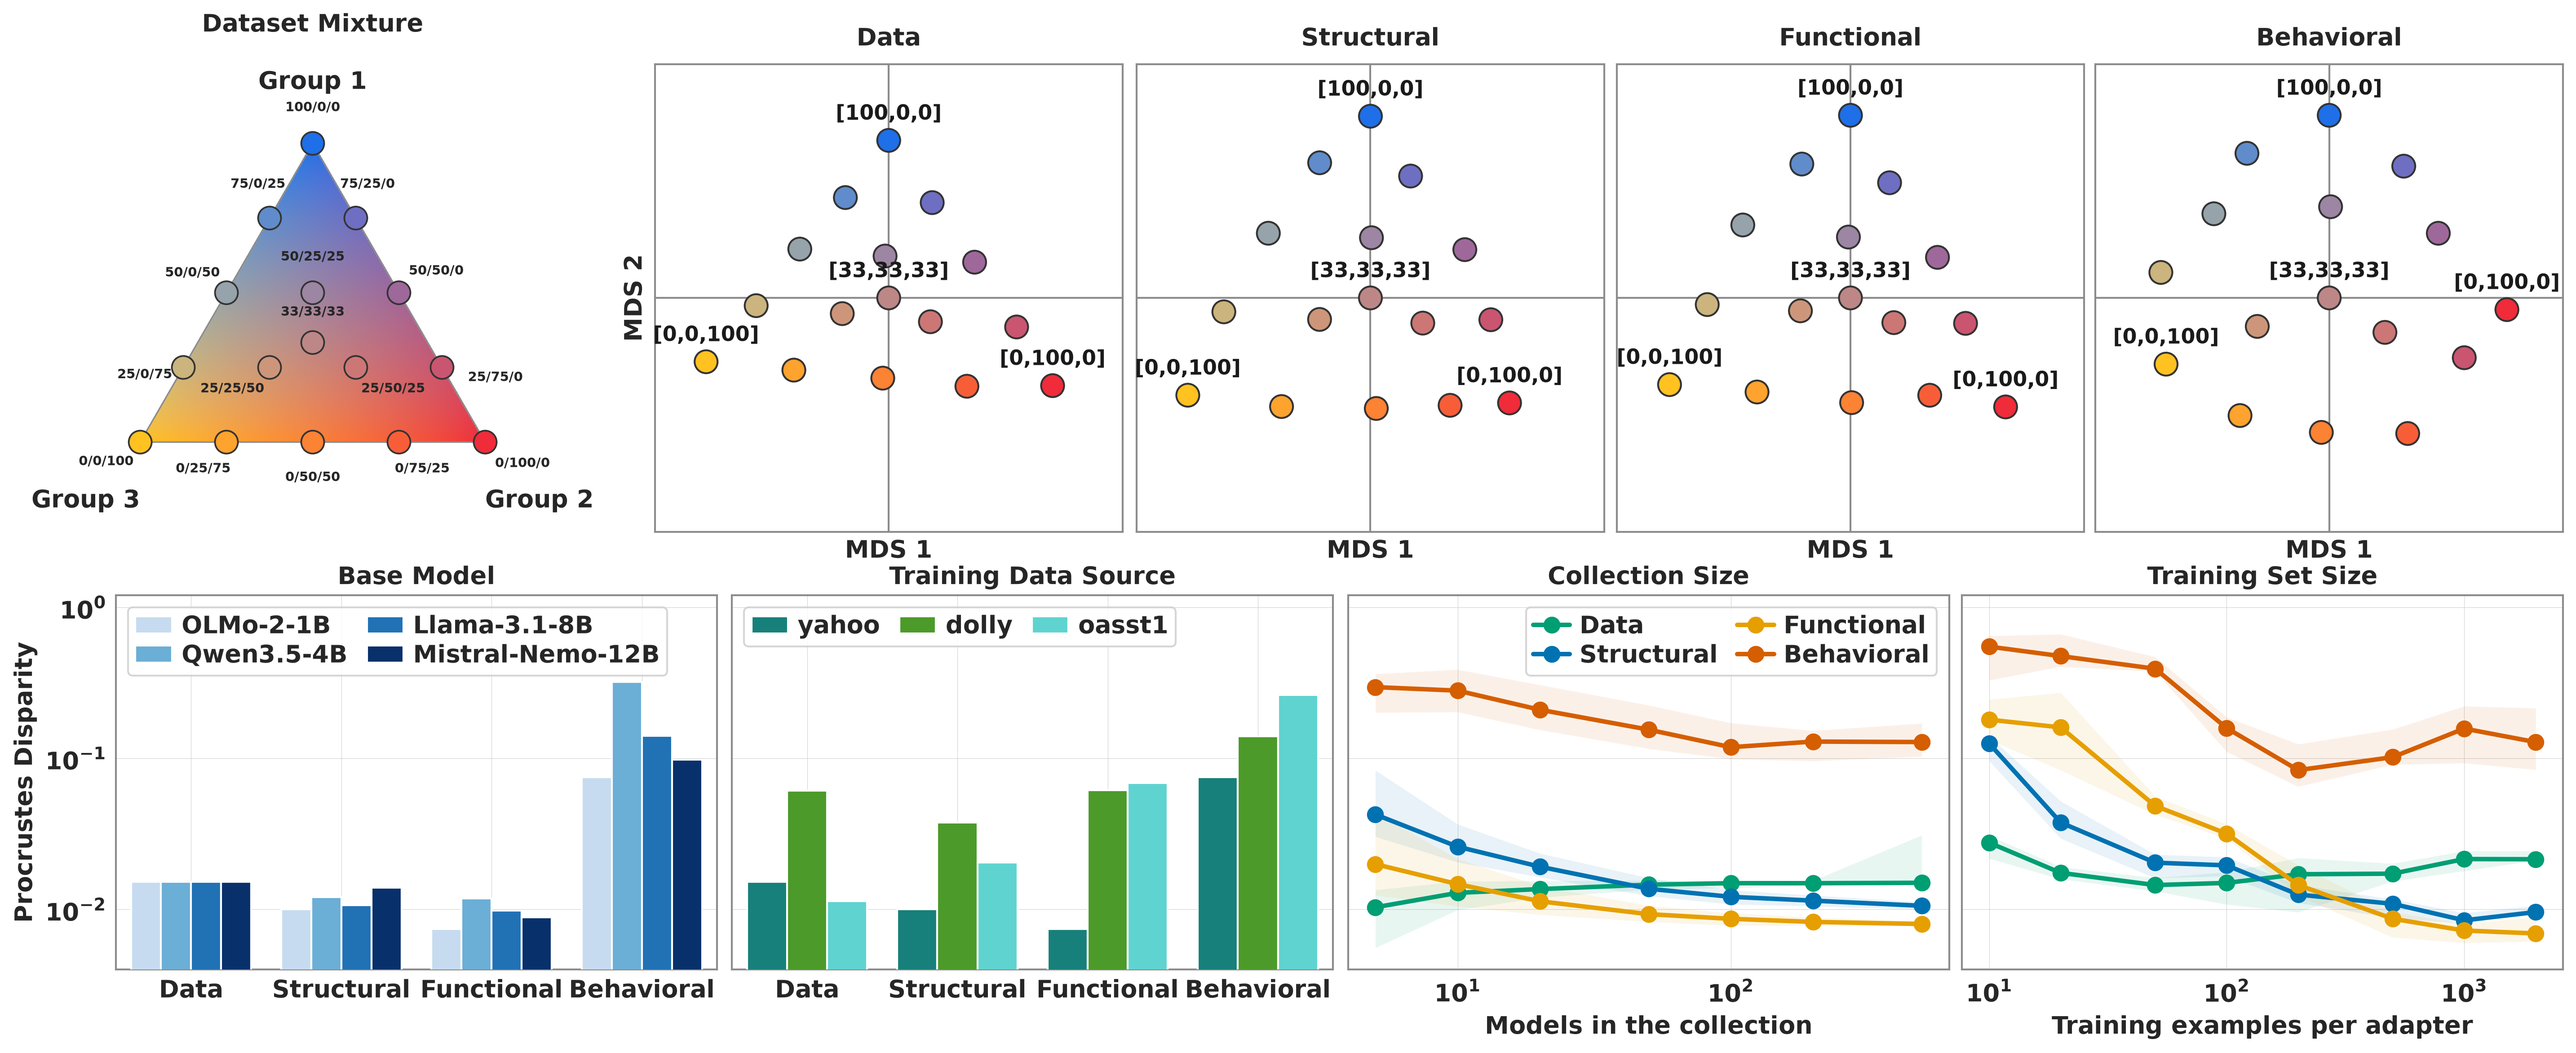
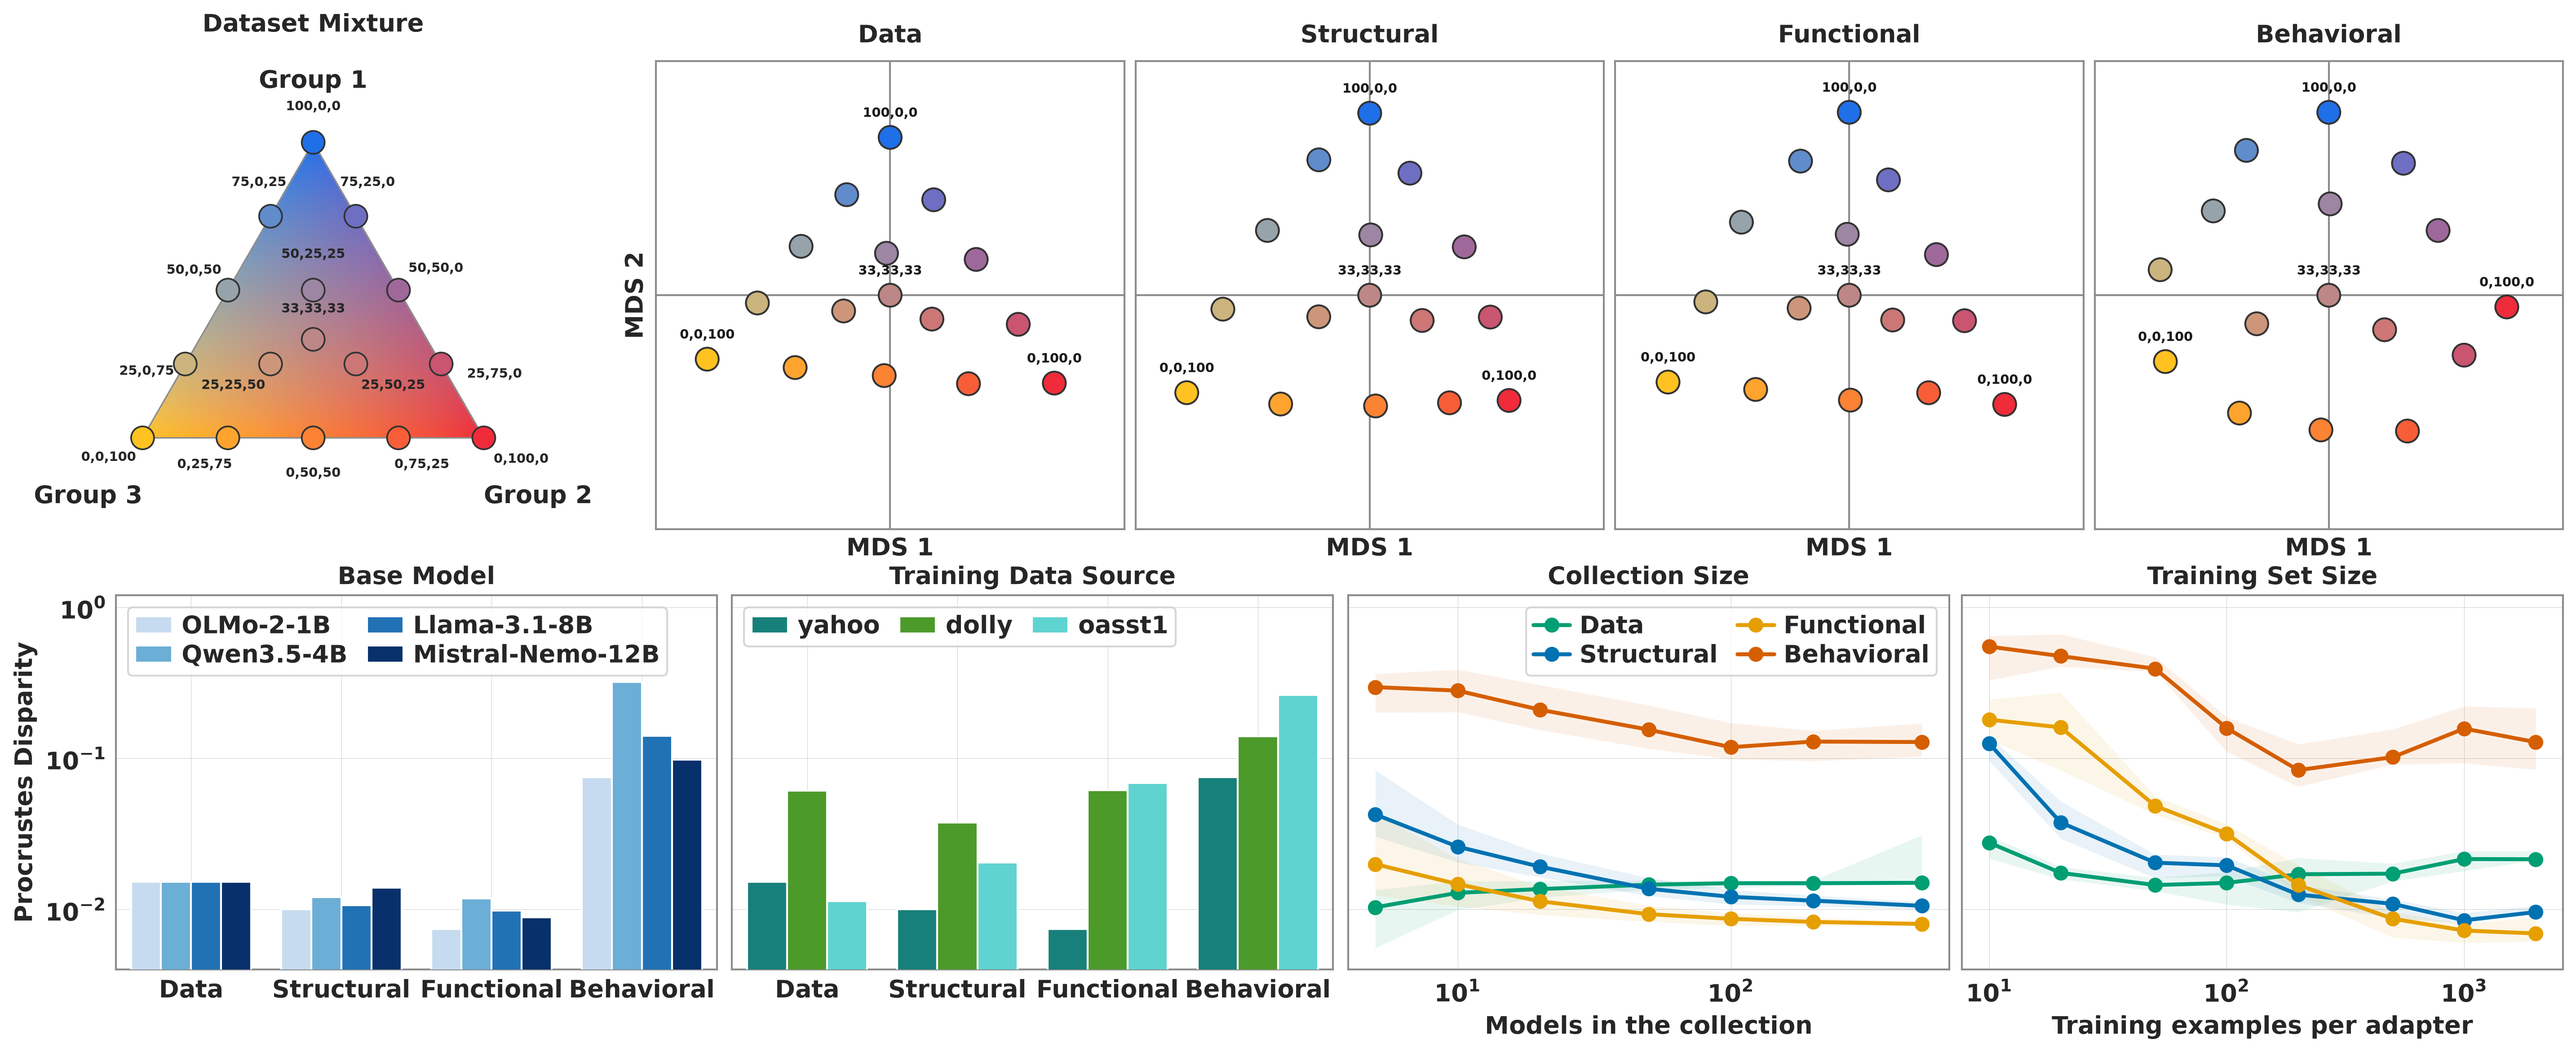
style(figure2): one form and one size for every mixture label
Mixtures are written `x,y,z` in the key and in the MDS panels alike -- no
brackets, no slashes -- and every label that names one is set at a single
MIXTURE_LABEL_SIZE, replacing the two sizes the key and the panels carried.

Claude-Session: https://claude.ai/code/session_013wT22QHA98vYoz6C7ZiiGN

diff --git a/figures/figure2/make_figures.py b/figures/figure2/make_figures.py
@@ -116,11 +116,10 @@ Every piece of text in the figure is one size and one weight — see
 :data:`FONT_SIZE` and :func:`_apply_style`. The three sources this figure is
 assembled from do not agree on either by default, because each was written for a
 figure it was the whole of, and side by side in one frame that difference reads
-as emphasis rather than as provenance. The single exception is the vertex and
-centre labels annotated *inside* the MDS panels, which take one step down (see
-:data:`POINT_LABEL_SIZE`) because they sit among the points they name, and the
-mixture key's sixteen labels, which are smaller again (see
-:data:`KEY_LABEL_SIZE`) because sixteen of them share one triangle.
+as emphasis rather than as provenance. The single exception is the labels that
+name a mixture — the four annotated inside each MDS panel and the key's sixteen
+— which are set together at :data:`MIXTURE_LABEL_SIZE`, small enough for the
+densest panel that carries them.
 
 Usage
 -----
@@ -242,22 +241,16 @@ SWEEP_MARKER = "o"
 #: flattened here rather than in either source.
 FONT_SIZE = 13
 
-#: The one exception, for the vertex and centre labels annotated inside the top
-#: row's MDS panels. They sit among the points they name rather than outside the
-#: axes, so at the full size they crowd the configuration they are there to
-#: explain. A step down, not a different register.
-POINT_LABEL_SIZE = FONT_SIZE - 2
+#: The one exception: every label that names a mixture, in the key and in the
+#: four MDS panels alike. These sit among the points they name rather than
+#: outside an axes, and sixteen of them share the key's triangle, so at FONT_SIZE
+#: they crowd the configuration they are there to explain. One value for all of
+#: them -- the same text saying the same thing in five panels -- and it is the
+#: size the densest of those panels can carry.
+MIXTURE_LABEL_SIZE = 7
 
 #: The names of the two axes every top-row panel is drawn in.
 MDS_AXES = ("MDS 1", "MDS 2")
-
-#: The mixture key's sixteen labels, which are the one thing in the figure that
-#: cannot be set at :data:`FONT_SIZE`. They name every sampled point on a
-#: triangle the width of one panel, so at 13 pt ``75/0/25`` runs into
-#: ``75/25/0`` and the bottom row of five is a single smear. The key is a dense
-#: legend rather than a panel, and this is the size at which it is readable as
-#: one. The three vertex *names* are unaffected and stay at FONT_SIZE.
-KEY_LABEL_SIZE = 7
 
 #: The *triangle* is drawn smaller than the panels beside it -- it is a legend,
 #: not a fifth measurement -- by widening the margin around it inside an axes
@@ -287,15 +280,14 @@ MIXTURE_MARKER_SIZE = 150
 AXIS_COLOR = "0.55"
 
 
-def bracket_label(model_id: str) -> str:
-    """``'[25,50,25]'`` -- a mixture written as the vector it is.
+def comma_label(model_id: str) -> str:
+    """``'25,50,25'`` -- a mixture written as the vector it is.
 
-    The project's usual form is ``25/50/25``. Bracketed is this figure's, for
-    both the MDS point labels and the key: nine panels in, a reader meets these
-    trios beside axis values and bar heights, and the brackets say *one label,
-    three numbers* where the slashes read as a fraction.
+    The project's usual form is ``25/50/25``. Commas are this figure's, for both
+    the MDS point labels and the key: nine panels in, a reader meets these trios
+    beside axis values and bar heights, where a slash reads as a fraction.
     """
-    return "[" + ",".join(mixture_label(model_id).split("/")) + "]"
+    return ",".join(mixture_label(model_id).split("/"))
 
 
 # ── The four levels, in every form the nine panels need them ──────────────────
@@ -461,8 +453,8 @@ def draw_top_row(fig, gs, levels: list[Level], cells, ids) -> None:
     kax = fig.add_subplot(gs[0, 0])
     ternary_legend(kax, ids, label_models=True,
                    vertex_names=group_display(3), show_topics=False,
-                   label_size=KEY_LABEL_SIZE, vertex_size=KEY_VERTEX_SIZE,
-                   marker_size=MIXTURE_MARKER_SIZE, label_fmt=mixture_label,
+                   label_size=MIXTURE_LABEL_SIZE, vertex_size=KEY_VERTEX_SIZE,
+                   marker_size=MIXTURE_MARKER_SIZE, label_fmt=comma_label,
                    fill_points=True, pad=KEY_PAD, outline_color=AXIS_COLOR,
                    label_offset=KEY_LABEL_OFFSET, avoid_collisions=True,
                    fontweight="bold", fontfamily=bold_capable_family())
@@ -471,8 +463,8 @@ def draw_top_row(fig, gs, levels: list[Level], cells, ids) -> None:
     for k, label in enumerate(PANEL_ORDER):
         ax = crosslevel_panel(fig.add_subplot(gs[0, k + 1]), by_label[label].label,
                               cells[label], font_size=FONT_SIZE,
-                              point_label_size=POINT_LABEL_SIZE, bold=True,
-                              label_fmt=bracket_label, axis_color=AXIS_COLOR,
+                              point_label_size=MIXTURE_LABEL_SIZE, bold=True,
+                              label_fmt=comma_label, axis_color=AXIS_COLOR,
                               marker_size=MIXTURE_MARKER_SIZE)
         # No ticks. An MDS coordinate has no units and no origin a reader can
         # use -- the configuration is only defined up to rotation, reflection
